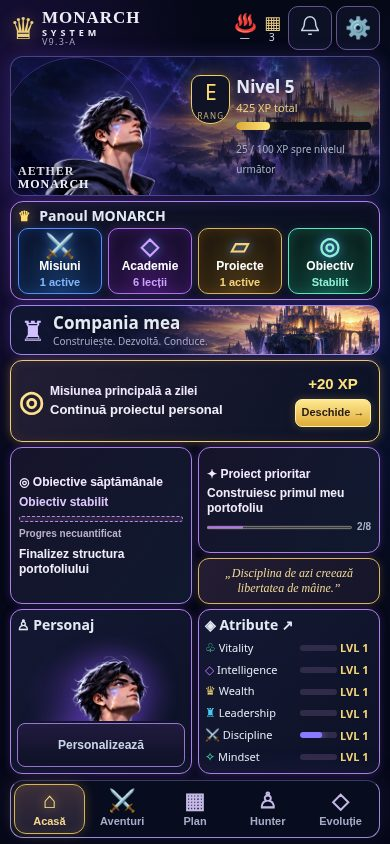
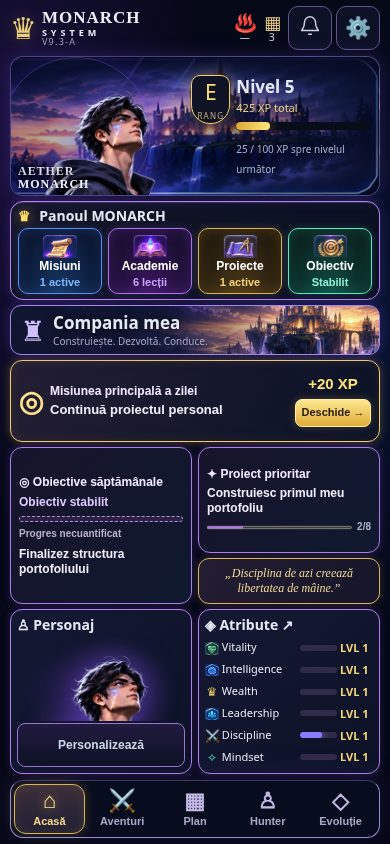
Integrate audited rank scenes and premium dashboard graphics without layout changes

diff --git a/app.js b/app.js
@@ -18,8 +18,13 @@ const level=()=>Math.floor(state.xp/100)+1;const ranks=['E','D','C','B','A','S']
 const counts=cat=>state.history.filter(x=>x.category===cat).length;
 function toast(msg){let el=document.createElement('div');el.className='toast';el.textContent=msg;document.body.append(el);setTimeout(()=>el.remove(),2700)}
 const CHARACTER_ART={E:'assets/characters/aether-e.webp',D:'assets/characters/aether-d.webp',C:'assets/characters/aether-c.webp',B:'assets/characters/aether-b.webp',A:'assets/characters/aether-a.webp',S:'assets/characters/aether-s.webp'};
+// URLs only: render requests the current rank, never all six scenes.
+const HERO_ART={E:'assets/graphics/concept/hero-e.webp',D:'assets/graphics/concept/hero-d.webp',C:'assets/graphics/concept/hero-c.webp',B:'assets/graphics/concept/hero-b.webp',A:'assets/graphics/concept/hero-a.webp',S:'assets/graphics/concept/hero-s.webp'};
+const ATTRIBUTE_ART={vitality:'energy',intelligence:'intelligence',leadership:'leadership'};
+function graphicIcon(file,fallback){return `<span class="icon-fallback">${fallback}</span><img class="graphic-icon" src="assets/graphics/concept/${file}-concept.webp" alt="" decoding="async">`}
+
 function header(){const recent=state.history.filter(h=>{const age=Date.now()-new Date(h.date).getTime();return age>=0&&age<7*864e5}).length;return `<header class="top monarch-brand"><span class="brand-crown" aria-hidden="true">♛</span><div class="brand-wordmark"><h1>MONARCH<span>SYSTEM</span></h1><small>${esc(window.MONARCH_BUILD)}</small></div><div class="header-status"><span class="header-fact" aria-label="Streak: nu există un contor salvat" title="Streak: nu există un contor salvat"><span aria-hidden="true">♨</span><small>—</small></span><span class="header-fact" aria-label="${recent} realizări în ultimele 7 zile" title="Realizări în ultimele 7 zile"><span aria-hidden="true">▦</span><small>${recent}</small></span><button class="secondary" data-tab="evolution" aria-label="Activitate recentă" title="Activitate recentă"><svg aria-hidden="true" viewBox="0 0 24 24" width="22" height="22" fill="none" stroke="currentColor" stroke-width="1.6"><path d="M18 8a6 6 0 0 0-12 0c0 7-3 7-3 9h18c0-2-3-2-3-9M10 21h4"/></svg></button><button class="brand-profile secondary" data-tab="evolution" aria-label="Evoluție și setări">⚙</button></div></header>`}
-function hero(){const r=rank();return `<section class="card hero monarch-hero" data-rank="${r}"><div class="hero-progress"><span class="rank-seal">${r}<small>RANG</small></span><div class="hero-progress-body"><div class="row"><strong>Nivel ${level()}</strong><span>${state.xp} XP total</span></div><small>${esc(state.player||'Monarch')}</small><div class="xpbar" role="progressbar" aria-label="XP către nivelul următor" aria-valuemin="0" aria-valuemax="100" aria-valuenow="${state.xp%100}"><div style="width:${state.xp%100}%"></div></div><small>${state.xp%100} / 100 XP spre nivelul următor</small></div></div><div class="character-stage"><div class="aether-orbit" aria-hidden="true"></div><div class="character-title"><span class="eyebrow">PERSONAJUL TĂU</span><h2>AETHER<br>MONARCH</h2><button class="secondary" data-tab="hunterpage">Personaj & inventar →</button></div><img class="aether-character" src="${CHARACTER_ART[r]||'assets/characters/aether-placeholder.svg'}" alt="AETHER MONARCH, rang ${r}" width="900" height="1200"></div></section>`}
+function hero(){const r=rank();return `<section class="card hero monarch-hero" data-rank="${r}"><div class="hero-scene-window" aria-hidden="true"><img class="hero-cinematic" src="${HERO_ART[r]}" alt="" width="1200" height="211" decoding="async"></div><div class="hero-progress"><span class="rank-seal">${r}<small>RANG</small></span><div class="hero-progress-body"><div class="row"><strong>Nivel ${level()}</strong><span>${state.xp} XP total</span></div><small>${esc(state.player||'Monarch')}</small><div class="xpbar" role="progressbar" aria-label="XP către nivelul următor" aria-valuemin="0" aria-valuemax="100" aria-valuenow="${state.xp%100}"><div style="width:${state.xp%100}%"></div></div><small>${state.xp%100} / 100 XP spre nivelul următor</small></div></div><div class="character-stage"><div class="aether-orbit" aria-hidden="true"></div><div class="character-title"><span class="eyebrow">PERSONAJUL TĂU</span><h2>AETHER<br>MONARCH</h2><button class="secondary" data-tab="hunterpage">Personaj & inventar →</button></div><img class="aether-character" src="${CHARACTER_ART[r]||'assets/characters/aether-placeholder.svg'}" alt="AETHER MONARCH, rang ${r}" width="900" height="1200"></div></section>`}
 
 function debtCount(){return Object.values(state.debts).reduce((a,b)=>a+b,0)}
 function hunter(){return `<section class="card"><h2>🛡 HUNTER MODE</h2><div class="row"><strong>⚫ Shadow Debt</strong><span class="pill">${debtCount()} amânări</span></div><p class="muted">Amânările sunt urmărite numai dacă alegi explicit «Amână». Pauzele și misiunile de sănătate nu sunt penalizate.</p>${Object.entries(state.debts).filter(([k,v])=>v>0).map(([k,v])=>{let t=[...state.tasks,...state.customTasks].find(x=>x.id===k);return `<div class="quest"><strong>${esc(t?.name||'Misiune')}</strong><p>${v} amânări · ${v>=3?'🐉 BREAK THE CYCLE activ':v>=2?'⚔ Recuperare disponibilă':'Pas mic recomandat'}</p><button class="secondary" data-action="recover" data-id="${esc(k)}">✓ Am realizat un pas mic</button></div>`}).join('')||'<p class="muted">Nicio amânare înregistrată. Continuă în ritmul tău.</p>'}</section>`}
@@ -27,8 +32,8 @@ function weekly(){let now=Date.now(),recent=state.history.filter(h=>now-new Date
 function unifiedPaths(){try{let a=core.read('monarch-awakening-v2');return (a.paths?.length?a.paths:['Finanțe','Sport','Organizare']).slice(0,3)}catch{return ['Finanțe','Sport','Organizare']}}
 function unifiedGoals(){try{return core.read('monarch-planner-v25').goals||{}}catch{return {}}}
 function missionCards(){const icons={'Finanțe':'💰','Sport':'💪','Organizare':'📅'};return unifiedPaths().map(p=>`<article class="quest unified-mission"><div class="row"><strong>${icons[p]||'⚔'} ${esc(p)}</strong><span class="pill">+20 XP</span></div><p>${['Finanțe','Sport','Organizare','Disciplină'].includes(p)?'Lecție interactivă în 5 etape, cu exemple și verificări.':'Provocare ghidată în 3 etape.'} Recompensa se acordă o singură dată.</p><button data-life25-start="${esc(p)}">⚔ Începe misiunea</button></article>`).join('')}
-function characteristics(compact=false){const entries=[['vitality','♧','Vitality'],['intelligence','◇','Intelligence'],['wealth','♛','Wealth'],['leadership','♜','Leadership'],['discipline','⚔','Discipline'],['mindset','✧','Mindset']];return `<section class="card ${compact?'dashboard-attributes monarch-attributes':''}" aria-label="Atribute"><h2>◈ ${compact?'Atribute ↗':'Caracteristici'}</h2><div class="stats">${entries.map(([id,icon,label])=>{const n=counts(id);const lvl=Math.floor(n/5)+1;return `<div class="stat" data-attribute="${id}"><span><i aria-hidden="true">${icon}</i> ${label}</span><b>LVL ${lvl}</b><progress class="attribute-progress" max="5" value="${n%5}" aria-label="${label}: ${n%5} din 5 realizări către nivelul următor"></progress>${compact?'':`<small>${n} ${n===1?'realizare':'realizări'} · ${n%5}/5 spre nivelul următor</small>`}</div>`}).join('')}</div>${compact?'<button class="attributes-open" data-tab="attributes" aria-label="Atribute: deschide detaliile realizărilor"></button>':''}</section>`}
-function monarchPanel(g,activeTasks){const available=lessons.filter(l=>!state.academy[l.id]?.done).length+(state.adaptive.promptcraft?.done?0:1),projects=state.bosses.filter(b=>!b.claimed).length;return `<section class="card monarch-panel" id="monarch-panel"><h2><span aria-hidden="true">♛</span> Panoul MONARCH</h2><div class="monarch-panel-grid monarch-actions"><button data-tab="adventure" data-summary="missions"><span class="panel-icon" aria-hidden="true">⚔</span><b>Misiuni</b><strong>${activeTasks.length} active</strong></button><button data-adventure="academy" data-summary="academy"><span class="panel-icon" aria-hidden="true">◇</span><b>Academie</b><strong>${available} lecții</strong></button><button data-adventure="projects" data-summary="projects"><span class="panel-icon" aria-hidden="true">▱</span><b>Proiecte</b><strong>${projects} active</strong></button><button data-tab="plan" data-summary="goal"><span class="panel-icon" aria-hidden="true">◎</span><b>Obiectiv</b><strong>${g.week?'Stabilit':'Nestabilit'}</strong></button></div></section>`}
+function characteristics(compact=false){const entries=[['vitality','♧','Vitality'],['intelligence','◇','Intelligence'],['wealth','♛','Wealth'],['leadership','♜','Leadership'],['discipline','⚔','Discipline'],['mindset','✧','Mindset']];return `<section class="card ${compact?'dashboard-attributes monarch-attributes':''}" aria-label="Atribute"><h2>◈ ${compact?'Atribute ↗':'Caracteristici'}</h2><div class="stats">${entries.map(([id,icon,label])=>{const n=counts(id);const lvl=Math.floor(n/5)+1;return `<div class="stat" data-attribute="${id}"><span><i aria-hidden="true">${compact&&ATTRIBUTE_ART[id]?graphicIcon('attribute-'+ATTRIBUTE_ART[id],icon):icon}</i> ${label}</span><b>LVL ${lvl}</b><progress class="attribute-progress" max="5" value="${n%5}" aria-label="${label}: ${n%5} din 5 realizări către nivelul următor"></progress>${compact?'':`<small>${n} ${n===1?'realizare':'realizări'} · ${n%5}/5 spre nivelul următor</small>`}</div>`}).join('')}</div>${compact?'<button class="attributes-open" data-tab="attributes" aria-label="Atribute: deschide detaliile realizărilor"></button>':''}</section>`}
+function monarchPanel(g,activeTasks){const available=lessons.filter(l=>!state.academy[l.id]?.done).length+(state.adaptive.promptcraft?.done?0:1),projects=state.bosses.filter(b=>!b.claimed).length;return `<section class="card monarch-panel" id="monarch-panel"><h2><span aria-hidden="true">♛</span> Panoul MONARCH</h2><div class="monarch-panel-grid monarch-actions"><button data-tab="adventure" data-summary="missions"><span class="panel-icon" aria-hidden="true">${graphicIcon('icon-missions','⚔')}</span><b>Misiuni</b><strong>${activeTasks.length} active</strong></button><button data-adventure="academy" data-summary="academy"><span class="panel-icon" aria-hidden="true">${graphicIcon('icon-academy','◇')}</span><b>Academie</b><strong>${available} lecții</strong></button><button data-adventure="projects" data-summary="projects"><span class="panel-icon" aria-hidden="true">${graphicIcon('icon-projects','▱')}</span><b>Proiecte</b><strong>${projects} active</strong></button><button data-tab="plan" data-summary="goal"><span class="panel-icon" aria-hidden="true">${graphicIcon('icon-objective','◎')}</span><b>Obiectiv</b><strong>${g.week?'Stabilit':'Nestabilit'}</strong></button></div></section>`}
 function dashboardData(){const goals=unifiedGoals(),tasks=[...state.tasks,...state.customTasks].filter(t=>!state.completed[today()+':'+t.id]&&!state.deferred[today()+':'+t.id]);return {goals,tasks,project:state.bosses.find(b=>!b.claimed)}}
 
 function home(){const {goals:g,tasks,project}=dashboardData(),task=tasks[0],r=rank(),hasProject=project&&Number.isFinite(project.target)&&project.target>0&&Number.isFinite(project.progress),progress=hasProject?Math.min(project.target,Math.max(0,project.progress)):0;return `<main class="single-dashboard" aria-label="Compania mea">${hero()}${monarchPanel(g,tasks)}<section class="company-heading company-banner"><span class="company-sigil" aria-hidden="true">♜</span><div><h2>Compania mea</h2><p>Construiește. Dezvoltă. Conduce.</p></div></section><button class="dashboard-mission" data-tab="adventure" aria-label="Misiunea principală: ${esc(task?.name||g.today||'Alege o misiune')}. Deschide lista și acțiunile."><span class="mission-icon" aria-hidden="true">◎</span><span class="mission-copy"><span class="summary-label">Misiunea principală a zilei</span><strong>${esc(task?.name||g.today||'Alege următoarea misiune')}</strong></span><span class="mission-action"><b>${task?'+'+task.xp+' XP':'Misiuni'}</b><span class="mission-cta">Deschide →</span></span></button><section class="dashboard-progress" aria-label="Obiective și proiect"><button class="dashboard-weekly" data-tab="plan" aria-label="Obiective săptămânale: ${esc(g.week||'Nestabilite')}. Progresul nu este cuantificat."><span class="summary-label">◎ Obiective săptămânale</span><strong>${g.week?'Obiectiv stabilit':'Obiectiv nestabilit'}</strong><span class="goal-status" aria-hidden="true"></span><small>Progres necuantificat</small><span class="weekly-summary">${esc(g.week||'Alege direcția săptămânii în Plan.')}</span></button><div class="dashboard-progress-right"><button class="dashboard-project" data-adventure="projects" aria-label="Proiect prioritar: ${esc(project?.name||'Niciun proiect activ')}"><span class="summary-label">✦ Proiect prioritar</span><strong>${esc(project?.name||'Niciun proiect activ')}</strong>${hasProject?`<span class="project-progress-row"><progress max="${project.target}" value="${progress}" aria-label="Proiect: ${progress} din ${project.target} pași"></progress><small>${progress}/${project.target}</small></span>`:'<small>Alege un proiect →</small>'}</button><blockquote class="card monarch-quote">„Disciplina de azi creează libertatea de mâine.”</blockquote></div></section><section class="dashboard-character-attributes" aria-label="Personaj și atribute"><section class="card dashboard-character"><h2>♙ Personaj</h2><div class="portrait-stage"><img class="aether-portrait" src="${CHARACTER_ART[r]||'assets/characters/aether-placeholder.svg'}" alt="Portret AETHER MONARCH, rang ${r}" width="900" height="1200"></div><button class="secondary" data-tab="hunterpage">Personalizează</button></section>${characteristics(true)}</section></main>`}
@@ -76,15 +81,17 @@ function courseAdvance(){let x=courseState();if(x.stage<4){x.stage++;save();rend
 let activeLesson=null;
 function academy(){let done=lessons.filter(l=>state.academy[l.id]?.done).length;return `<section class="card"><h2>📚 Academia Hunter</h2><p class="note">Învață în aplicație, răspunde la întrebări și câștigă XP o singură dată pentru fiecare lecție finalizată.</p><div class="row"><strong>Progres academie</strong><span class="pill">${done}/${lessons.length} lecții</span></div><div class="mini"><div style="width:${100*done/lessons.length}%"></div></div><button class="secondary" id="aw-open">🗺 Lecțiile traseului personalizat</button></section><section class="card"><p class="eyebrow">🧠 ANTRENAMENT AVANSAT</p><h2>Arta prompturilor</h2><p>Lecție aprofundată: teorie, exerciții ghidate, prompt scris de tine și proiect BOSS. Exerciții de aprofundare și proiect practic.</p><button data-action="opencourse">⚔ ${courseState().done?'Revizuiește':'Începe'} PROMPT ENGINEERING</button></section>${lessons.map(l=>`<section class="card"><small class="eyebrow">${esc(l.tag)}</small><h2>${esc(l.title)}</h2><p class="muted">${state.academy[l.id]?.done?'🏆 Finalizată':'⚔ Lecție interactivă'} · ${l.xp} XP</p><button data-action="openlesson" data-id="${l.id}">${state.academy[l.id]?.done?'📖 Recitește':'⚔ Intră în misiune'}</button></section>`).join('')}<section class="card"><h2>🐉 BOSS: ACADEMY INITIATE</h2><p>Finalizează toate cele ${lessons.length} lecții. Nu se acordă XP suplimentar pentru repetări.</p><button data-action="academyboss" ${done!==lessons.length||state.academy.bossClaimed?'disabled':''}>${state.academy.bossClaimed?'🏆 BOSS învins':'🏆 Revendică +100 XP'}</button></section>`}
 function lessonView(){let l=lessons.find(x=>x.id===activeLesson);if(!l){tab='adventure';adventureSection='academy';return adventure()}let st=state.academy[l.id]||{};return `<section class="card"><button class="secondary" data-action="backacademy">← Înapoi</button><p class="eyebrow">${esc(l.tag)}</p><h2>⚔ ${esc(l.title)}</h2><p class="lesson-text">${esc(l.read)}</p><h3>🧩 Provocare</h3><p>${esc(l.question)}</p>${l.choices.map((c,i)=>`<button class="choice ${st.done&&i===l.answer?'correct':''}" data-action="answer" data-id="${l.id}" data-choice="${i}" ${st.done?'disabled':''}>${String.fromCharCode(65+i)}. ${esc(c)}</button>`).join('')}${st.done?`<p class="success">🏆 Lecție finalizată! ${esc(l.why)}</p>`:'<p class="muted">Poți încerca din nou dacă răspunsul nu este corect. Nu pierzi XP.</p>'}</section>`}
-const views={home,attributes:()=>`<section class="card"><button data-tab="home">← Acasă</button><h2>Atributele personajului</h2></section>`+characteristics(),adventure,plan:planUnified,hunterpage:hunterUnified,evolution:evolutionUnified,academy,lesson:lessonView,course};function render(){document.documentElement.classList.toggle('single-screen',tab==='home');document.documentElement.dataset.dashboardMode=dashboardMode();document.getElementById('app').innerHTML=header()+views[tab]()+`<nav class="tabs unified-tabs">${[['home','Acasă'],['adventure','Aventuri'],['plan','Plan'],['hunterpage','Hunter'],['evolution','Evoluție']].map(([k,n])=>`<button data-tab="${k}" class="${tab===k?'active':''}"><span class="nav-symbol" aria-hidden="true">${({home:"⌂",adventure:"⚔",plan:"▦",hunterpage:"♙",evolution:"◇"})[k]}</span><span>${n}</span></button>`).join('')}</nav>`;document.querySelectorAll('.aether-character,.aether-portrait').forEach(img=>{img.addEventListener('error',()=>{img.src='assets/characters/aether-placeholder.svg';img.alt='AETHER MONARCH — ilustrație provizorie, rang '+rank();},{once:true});});requestAnimationFrame(checkDashboardFit);}
+const views={home,attributes:()=>`<section class="card"><button data-tab="home">← Acasă</button><h2>Atributele personajului</h2></section>`+characteristics(),adventure,plan:planUnified,hunterpage:hunterUnified,evolution:evolutionUnified,academy,lesson:lessonView,course};function render(){document.documentElement.classList.toggle('single-screen',tab==='home');document.documentElement.dataset.dashboardMode=dashboardMode();document.getElementById('app').innerHTML=header()+views[tab]()+`<nav class="tabs unified-tabs">${[['home','Acasă'],['adventure','Aventuri'],['plan','Plan'],['hunterpage','Hunter'],['evolution','Evoluție']].map(([k,n])=>`<button data-tab="${k}" class="${tab===k?'active':''}"><span class="nav-symbol" aria-hidden="true">${({home:"⌂",adventure:"⚔",plan:"▦",hunterpage:"♙",evolution:"◇"})[k]}</span><span>${n}</span></button>`).join('')}</nav>`;document.querySelectorAll('.aether-character,.aether-portrait').forEach(img=>{img.addEventListener('error',()=>{img.src='assets/characters/aether-placeholder.svg';img.alt='AETHER MONARCH — ilustrație provizorie, rang '+rank();},{once:true});});document.querySelectorAll('.hero-cinematic').forEach(img=>img.addEventListener('error',()=>{img.dataset.fallback='true';img.src='assets/scenes/monarch-castle-panorama.webp';},{once:true}));document.querySelectorAll('.graphic-icon').forEach(img=>img.addEventListener('error',()=>{img.hidden=true;img.parentElement.classList.add('art-missing');},{once:true}));document.querySelectorAll('.hero-cinematic,.graphic-icon,.aether-character,.aether-portrait').forEach(img=>{for(const event of ['load','error'])img.addEventListener(event,()=>scheduleDashboardFit());});document.fonts?.ready.then(()=>scheduleDashboardFit());scheduleDashboardFit();}
 function award(name,xp,category){state.xp+=xp;state.history.push({date:new Date().toISOString(),name,xp,category});save();render();toast(`✨ ${name}: +${xp} XP`)}
 document.addEventListener('click',e=>{let b=e.target.closest('button');if(!b)return;if(b.dataset.adventure){adventureSection=b.dataset.adventure;tab='adventure';render();scrollTo(0,0);return}if(b.dataset.tab){tab=b.dataset.tab;if(tab==='adventure')adventureSection='missions';render();scrollTo(0,0);return}let a=b.dataset.action,id=b.dataset.id;if(a==='opencourse'){tab='course';adventureSection='academy';render();scrollTo(0,0);return}else if(a==='diag'){let x=courseState();if(x.stage!==0)return;if(b.dataset.choice==='0'){x.tries=0;courseAdvance()}else{ x.tries++;save();toast('Indiciu: gândește-te ce informații îi lipsesc celui care scrie reclama.');render()}return}else if(a==='coursenext'){if(courseState().stage===1)courseAdvance();return}else if(a==='guided'){let x=courseState();if(x.stage!==2)return;if(b.dataset.choice==='1'){courseAdvance()}else{x.tries++;save();toast('Caută cererea care indică publicul, lungimea și un exemplu.');render()}return}else if(a==='openlesson'){activeLesson=id;tab='lesson';render();scrollTo(0,0);return}else if(a==='backacademy'){tab='adventure';adventureSection='academy';render();scrollTo(0,0);return}else if(a==='answer'){let l=lessons.find(x=>x.id===id);if(!l||state.academy[id]?.done)return;if(Number(b.dataset.choice)!==l.answer)return toast('Mai încearcă! Recitește explicația.');state.academy[id]={done:true,completedAt:new Date().toISOString()};award('ACADEMY: '+l.title,l.xp,l.tag.startsWith('🧠')?'intelligence':'wealth');return}else if(a==='academyboss'){if(lessons.every(l=>state.academy[l.id]?.done)&&!state.academy.bossClaimed){state.academy.bossClaimed=true;award('BOSS: ACADEMY INITIATE',100,'intelligence')}return}else if(a==='defer'){let t=[...state.tasks,...state.customTasks].find(t=>t.id===id);if(!t||!['intelligence','wealth','leadership','discipline'].includes(t.category))return;let key=today()+':'+id;if(state.deferred[key]||state.completed[key])return toast('Misiunea a fost deja gestionată astăzi');state.deferred[key]=true;state.debts[id]=(state.debts[id]||0)+1;save();render();toast(state.debts[id]>=3?'🐉 BREAK THE CYCLE: începe cu un pas mic':'Amânare înregistrată fără pierdere de XP');}else if(a==='recover'){if(!(state.debts[id]>0))return;let key=today()+':recover:'+id;if(state.recovery[key])return toast('Ai recuperat deja astăzi');state.recovery[key]=true;state.debts[id]--;award('BREAK THE CYCLE — pas mic',10,'discipline');}else if(a==='remove'){if(!confirm('Ștergi această misiune personalizată?'))return;state.customTasks=state.customTasks.filter(t=>t.id!==id);save();render();}else if(a==='complete'){let t=[...state.tasks,...state.customTasks].find(t=>t.id===id);if(!t||state.completed[`${today()}:${id}`]||state.deferred[`${today()}:${id}`])return;state.completed[`${today()}:${id}`]=true;award(t.name,t.xp,t.category)}else if(a==='bossstep'){let x=state.bosses.find(b=>b.id===id);if(x&&x.progress<x.target){x.progress++;save();render();toast('Pas BOSS înregistrat')}}else if(a==='bossclaim'){let x=state.bosses.find(b=>b.id===id);if(x&&x.progress>=x.target&&!x.claimed){x.claimed=true;award(`BOSS: ${x.name}`,x.reward,'discipline')}}else if(a==='rename'){state.player=document.getElementById('playername').value.trim()||'PLAYER 001';save();render()}else if(a==='export'){let blob=new Blob([JSON.stringify(state,null,2)],{type:'application/json'}),u=URL.createObjectURL(blob),a=document.createElement('a');a.href=u;a.download='monarch-backup-'+today()+'.json';a.click();setTimeout(()=>URL.revokeObjectURL(u),1000)}else if(a==='import'){document.getElementById('importfile').click()}});
 document.addEventListener('submit',e=>{if(['courseform','bossacademyform'].includes(e.target.id)){e.preventDefault();let x=courseState(),v=String(new FormData(e.target).get('prompt')||'').trim();if(e.target.id==='courseform'&&x.stage===3){x.notes=v;save();if(v.length<70)return toast('Adaugă mai multe detalii despre sarcină, context și format.');courseAdvance();return}if(e.target.id==='bossacademyform'&&x.stage===4&&!x.done){if(v.length<110)return toast('Descrie mai clar proiectul și cerințele.');x.result=v;x.done=true;award('ADAPTIVE: PROMPT ARCHITECT',module13.xp,'intelligence');return}return}if(!['taskform','healthform','financeform','bossform'].includes(e.target.id))return;e.preventDefault();let d=Object.fromEntries(new FormData(e.target).entries());if(e.target.id==='bossform'){if(state.bosses.filter(b=>!b.claimed).length>=5)return toast('Maximum 5 BOSS activi');state.bosses.push({id:'boss-'+Date.now(),name:d.name.trim(),target:Math.min(30,Math.max(1,Number(d.target)||5)),progress:0,reward:150,claimed:false});toast('BOSS adăugat');}if(e.target.id==='taskform'){if(!d.name.trim())return;state.customTasks.push({id:'custom-'+Date.now(),name:d.name.trim(),detail:d.detail,xp:15,category:d.category,daily:true});toast('Misiune adăugată')}if(e.target.id==='healthform'){if(![d.activity,d.food,d.sleep,d.weight].some(x=>x.trim()))return toast('Completează cel puțin un câmp');state.logs.push({...d,date:new Date().toISOString()});toast('Jurnal salvat')}if(e.target.id==='financeform'){state.finance.push({note:d.note,date:new Date().toISOString()});toast('Notă salvată')}save();render()});
 document.addEventListener('change',e=>{if(e.target.id==='importfile'){window.MONARCH_PROGRESS_SHIELD?.importFile(e.target.files[0]);e.target.value=''}});
 // Telegram reports the WebView's usable height: do not subtract its native header again.
+let dashboardFitRequest=0;
+function scheduleDashboardFit(){cancelAnimationFrame(dashboardFitRequest);dashboardFitRequest=requestAnimationFrame(checkDashboardFit)}
 function dashboardMode(){return dashboardHeight()<760?'compact':'full'}
 function dashboardHeight(){const tg=window.Telegram?.WebApp;return Math.min(...[window.innerHeight,window.visualViewport?.height,tg?.viewportHeight||tg?.viewportStableHeight].filter(n=>Number.isFinite(n)&&n>0))}
-function syncDashboardViewport(){const root=document.documentElement,tg=window.Telegram?.WebApp;root.style.setProperty('--monarch-viewport-height',dashboardHeight()+'px');for(const side of ['top','bottom','left','right']){const n=Math.max(Number(tg?.safeAreaInset?.[side])||0,Number(tg?.contentSafeAreaInset?.[side])||0);root.style.setProperty('--monarch-safe-'+side,n+'px')}root.dataset.dashboardMode=dashboardMode();root.dataset.dashboardLargeText=String(parseFloat(getComputedStyle(root).fontSize)>21);requestAnimationFrame(checkDashboardFit)}
+function syncDashboardViewport(){const root=document.documentElement,tg=window.Telegram?.WebApp;root.style.setProperty('--monarch-viewport-height',dashboardHeight()+'px');for(const side of ['top','bottom','left','right']){const n=Math.max(Number(tg?.safeAreaInset?.[side])||0,Number(tg?.contentSafeAreaInset?.[side])||0);root.style.setProperty('--monarch-safe-'+side,n+'px')}root.dataset.dashboardMode=dashboardMode();root.dataset.dashboardLargeText=String(parseFloat(getComputedStyle(root).fontSize)>21);scheduleDashboardFit()}
 function checkDashboardFit(){document.getElementById('dashboard-fit-notice')?.remove();const root=document.documentElement;root.classList.remove('dashboard-overflow');if(tab!=='home')return;const app=document.getElementById('app'),large=parseFloat(getComputedStyle(root).fontSize)>21,style=getComputedStyle(app),usable=app.clientHeight-parseFloat(style.paddingTop)-parseFloat(style.paddingBottom);const checks=app.querySelectorAll('.monarch-actions b,.monarch-actions strong,.dashboard-mission,.dashboard-weekly,.dashboard-project,.monarch-quote,.dashboard-attributes .stat span,.dashboard-attributes .stat b,.hero-progress-body,.company-banner,nav button');const clipped=Array.from(checks).some(el=>el.scrollWidth>el.clientWidth+2||el.scrollHeight>el.clientHeight+2);if(large||usable<680||clipped||app.scrollHeight>app.clientHeight+2){root.classList.add('dashboard-overflow');const note=document.createElement('p');note.id='dashboard-fit-notice';note.setAttribute('role','status');note.textContent='Acest spațiu, textul mărit sau lungimea rezumatelor nu permite toate cele opt zone lizibile pe un singur ecran. Structura este păstrată; derulează pentru toate detaliile. Încadrarea integrală necesită minimum 680 px utili, text standard și rezumate scurte.';app.querySelector('.single-dashboard').before(note)}}
 window.addEventListener('resize',syncDashboardViewport);window.visualViewport?.addEventListener('resize',syncDashboardViewport);try{const tg=window.Telegram?.WebApp;if(typeof tg?.onEvent==='function')for(const e of ['viewportChanged','safeAreaChanged','contentSafeAreaChanged'])tg.onEvent(e,syncDashboardViewport)}catch{}syncDashboardViewport();
 try{window.Telegram?.WebApp?.ready();window.Telegram?.WebApp?.expand()}catch{}render();

diff --git a/style.css b/style.css
@@ -129,3 +129,19 @@ body{background:radial-gradient(ellipse at 0 15%,#5025a047,transparent 38%),radi
 .dashboard-attributes{position:relative}.single-dashboard .attributes-open{position:absolute;inset:0;width:100%;height:100%;min-height:44px;padding:0;background:transparent;border:0;border-radius:12px;color:inherit}.single-dashboard .attributes-open:focus-visible{outline:2px solid #ffdf88;outline-offset:-3px}.single-screen.dashboard-overflow .dashboard-weekly,.single-screen.dashboard-overflow .dashboard-project{overflow-wrap:anywhere}.single-screen.dashboard-overflow .dashboard-progress-right{grid-template-rows:minmax(min-content,1fr) auto}
 
 .single-screen.dashboard-overflow[data-dashboard-large-text=true] .brand-wordmark h1{line-height:1.15}.single-screen.dashboard-overflow[data-dashboard-large-text=true] .monarch-hero .hero-progress{left:46%;grid-template-columns:40px minmax(0,1fr);gap:8px}.single-screen.dashboard-overflow[data-dashboard-large-text=true] .hero-progress .rank-seal{width:40px;font-size:1.5rem}.single-screen.dashboard-overflow[data-dashboard-large-text=true] .hero-progress .rank-seal small{font-size:.35rem}
+
+/* Concept graphics only: existing tracks, spacing, text and touch targets are unchanged. */
+.hero-scene-window{position:absolute;inset:0;z-index:0;overflow:hidden;pointer-events:none;border-radius:inherit}
+/* The right half is scenery. Keep the baked shield/second character outside the window. */
+.hero-cinematic{position:absolute;right:0;top:0;width:200%;height:100%;max-width:none;object-fit:cover;object-position:right center}
+.hero-cinematic[data-fallback=true]{width:100%}
+.hero-scene-window::after{content:"";position:absolute;inset:0;background:linear-gradient(180deg,#080b24 0%,#080b24aa 6%,transparent 22%),linear-gradient(90deg,#0a092852 5%,#0b0b2433 42%,#080b228c 65%,#080c2480);pointer-events:none}
+.panel-icon{display:inline-grid;place-items:center;width:1.4em;height:1em;flex:none}
+.graphic-icon{display:block;width:100%;height:100%;object-fit:contain;mix-blend-mode:screen}
+.graphic-icon[hidden],.icon-fallback{display:none}.art-missing>.icon-fallback{display:block}
+.single-dashboard .dashboard-attributes .stat i{display:inline-grid;place-items:center;vertical-align:middle;width:14px;height:14px;line-height:1}
+.single-screen .monarch-panel{box-shadow:0 0 12px #7d4bd747,inset 0 1px 0 #c6a0ef33}
+.single-screen .monarch-actions button{box-shadow:inset 0 0 13px #4269bc44,0 0 7px #649af52b}
+.single-screen .monarch-actions [data-summary=academy]{box-shadow:inset 0 0 15px #9043d447,0 0 8px #ad65f333}
+.single-screen .monarch-actions [data-summary=projects]{box-shadow:inset 0 0 15px #ab7c3047,0 0 8px #e5bb5433}
+.single-screen .monarch-actions [data-summary=goal]{box-shadow:inset 0 0 15px #299d8647,0 0 8px #5ee8c133}

diff --git a/index.html b/index.html
@@ -1,2 +1,2 @@
-<!doctype html><html lang="ro"><head><meta charset="utf-8"><meta name="viewport" content="width=device-width,initial-scale=1,viewport-fit=cover"><meta name="theme-color" content="#090d1b"><title>MONARCH — Life Ascension</title><link rel="stylesheet" href="style.css?v=monarch-v93a-exact-20261031"></head><body><div id="app"></div><script src="https://telegram.org/js/telegram-web-app.js?v=characteristics-restore-20261030"></script><script src="lesson-ids.js?v=monarch-v93a-exact-20261031"></script><script src="progress-core.js?v=monarch-v93a-exact-20261031"></script><script src="progress-shield.js?v=monarch-v93a-exact-20261031"></script><script src="app.js?v=monarch-v93a-exact-20261031"></script><script src="awakening.js?v=monarch-v93a-exact-20261031"></script><script src="hunter24.js?v=monarch-v93a-exact-20261031"></script><script src="life25.js?v=monarch-v93a-exact-20261031"></script></body></html>
+<!doctype html><html lang="ro"><head><meta charset="utf-8"><meta name="viewport" content="width=device-width,initial-scale=1,viewport-fit=cover"><meta name="theme-color" content="#090d1b"><title>MONARCH — Life Ascension</title><link rel="stylesheet" href="style.css?v=monarch-v93a-graphics-20261031"></head><body><div id="app"></div><script src="https://telegram.org/js/telegram-web-app.js?v=characteristics-restore-20261030"></script><script src="lesson-ids.js?v=monarch-v93a-graphics-20261031"></script><script src="progress-core.js?v=monarch-v93a-graphics-20261031"></script><script src="progress-shield.js?v=monarch-v93a-graphics-20261031"></script><script src="app.js?v=monarch-v93a-graphics-20261031"></script><script src="awakening.js?v=monarch-v93a-graphics-20261031"></script><script src="hunter24.js?v=monarch-v93a-graphics-20261031"></script><script src="life25.js?v=monarch-v93a-graphics-20261031"></script></body></html>
 

diff --git a/V93_GRAPHICS_AUDIT.md b/V93_GRAPHICS_AUDIT.md
@@ -1,0 +1,49 @@
+# V9.3-A — auditul pachetului grafic
+
+Audit efectuat înainte de integrare. Arhiva utilizatorului a fost extrasă în `/tmp/monarch-v93-graphics-original`, fără a suprascrie fișiere existente. Conține 17 imagini WebP și README.txt. Toate imaginile sunt RGB, complet opace, fără canal alpha; sunt decupaje dintr-o planșă, nu resurse native transparente. Nu conțin niveluri sau XP pictate.
+
+| Fișier | Rezoluție | Octeți | Problemă / decizie |
+| --- | --- | ---: | --- |
+| hero-e.webp | 1200×199 | 41434 | Rang E și personaj pictate în stânga; utilizabil numai ca fereastră pe decorul din dreapta |
+| hero-d.webp | 1200×199 | 47722 | Rang D / personaj în stânga; aceeași precauție |
+| hero-c.webp | 1200×202 | 54414 | Rang C / personaj în stânga; aceeași precauție |
+| hero-b.webp | 1200×202 | 61424 | Rang B / personaj în stânga; aceeași precauție |
+| hero-a.webp | 1200×211 | 69158 | Rang A / personaj în stânga; aceeași precauție |
+| hero-s.webp | 1200×211 | 78936 | Rang S; coroana și un vârf de castel ating marginea superioară a sursei; fără reconstrucție prin întindere |
+| company-concept-with-text.webp | 1200×313 | 99446 | Conține „Compania mea” și „AETHER CORPORATION”; respins ca banner direct, pentru a păstra titlul/subtitlul HTML fără dublare |
+| icon-missions-concept.webp | 163×114 | 6284 | Pergament cu bifă: semnificație potrivită; fără cuvinte; fundal opac, necesită verificare la dimensiunea mobilă |
+| icon-academy-concept.webp | 164×114 | 7616 | Carte: potrivită, fără cuvinte; fundal opac |
+| icon-projects-concept.webp | 164×114 | 6912 | Plan și compas: potrivită, fără cuvinte; fundal opac |
+| icon-objective-concept.webp | 173×114 | 7822 | Țintă: potrivită, fără cuvinte; fundal opac |
+| attribute-energy-concept.webp | 101×89 | 3356 | Inimă/puls: poate reprezenta Vitality, fără redenumirea atributului |
+| attribute-intelligence-concept.webp | 100×89 | 4102 | Creier: corespunde Intelligence |
+| attribute-leadership-concept.webp | 104×89 | 3610 | Grup: corespunde Leadership |
+| attribute-discipline-concept.webp | 103×89 | 3638 | Scut: metaforă ambiguă; se păstrează pictograma Discipline existentă |
+| attribute-strength-concept.webp | 101×89 | 3152 | Halteră: nu reprezintă Wealth sau Mindset; respinsă pentru mapare automată |
+| attribute-focus-concept.webp | 100×89 | 3922 | Reticul: nu reprezintă Wealth sau Mindset; respinsă pentru mapare automată |
+
+## Integrare aprobată de audit
+
+Se păstrează cele opt zone, dimensiunile grilelor și toate datele/funcțiile existente. Antetul folosește exclusiv imaginea rangului calculat de funcția existentă. Imaginile-sursă rămân byte-for-byte WebP, fără conversie cu pierderi suplimentare. O fereastră CSS pe jumătatea dreaptă a panoramei, cu `object-fit: cover`, exclude permanent insigna și personajul pictate în stânga, inclusiv pe ecrane mai late. Nu sunt întinse. AETHER E–S transparent și singura insignă HTML rămân în prim-plan; nivelul și XP-ul sunt HTML dinamice. La eroare se folosește panorama originală deja existentă.
+
+Pictogramele sunt strict decorative, cu `alt=""`; titlurile și indicatorii rămân HTML. Fundalurile lor opace se îmbină prin CSS cu panourile, fără a pretinde transparență nativă și fără a deforma proporțiile. La eroare de încărcare se reafișează simbolul existent. Cele șase atribute și regulile lor rămân neschimbate; trei pictograme au corespondențe clare, celelalte se păstrează.
+
+Bannerul companiei existent nu este înlocuit cu un decupaj nepotrivit sau cu text duplicat. Navigarea inferioară își păstrează etichetele, ordinea, starea activă și funcțiile.
+
+## Resurse care necesită regenerare separată
+
+- Banner panoramic original fără niciun text sau logo încorporat, cu castelul în dreapta și spațiu întunecat pentru titlul HTML în stânga.
+- Pictograme native transparente (SVG/PNG/WebP alpha), fără rame decupate; set semantic complet pentru Vitality, Intelligence, Wealth, Leadership, Discipline, Mindset.
+- Opțional: variante originale E–S fără insignă/personaj pictate și fără vârfuri tăiate, dacă se dorește afișarea întregii compoziții în locul ferestrei pe decor.
+
+Sursa S are deja detalii care ating/depășesc marginea superioară; nu este afișată ca planșă integrală. Coroana tăiată rămâne în afara ferestrei decorative, iar marginea superioară a decorului este estompată într-un gradient bleumarin pentru a nu expune tăieturi dure. CSS nu poate recupera pixeli inexistenți; o variantă nativă fără tăieri rămâne recomandată. Nu se pretinde reproducere integrală pixel cu pixel. Nu se încarcă simultan cele șase fundaluri: registrul conține URL-uri, iar DOM-ul solicită numai rangul curent. Nu sunt adăugate animații, preloaduri pentru toate rangurile sau biblioteci grafice.
+
+## Buget și validare
+
+Au fost integrate 13 resurse, total 392.790 octeți, verificate byte-for-byte cu arhiva. La un profil se solicită numai fundalul rangului curent (41.434–78.936 octeți), plus patru pictograme de acțiuni și trei de atribute (39.702 octeți împreună): aproximativ 81–119 KB de grafică nouă, nu toate cele șase scene. Resursele existente pentru personaj și banner se păstrează. Nu se adaugă preloaduri pentru toate rangurile sau animații.
+
+Verificarea încadrării se reexecută după încărcarea/eroarea imaginilor și după stabilizarea fonturilor. Cererile din același cadru sunt grupate, pentru a evita măsurări repetate sau activarea temporară nejustificată a modului cu derulare. Pragurile și comportamentul accesibil existent rămân aceleași.
+
+Testele acoperă 108 cazuri Node, 18 combinații de rang și viewport țintă, toate cele șase ranguri la WebView740 pe cele trei lățimi, încărcarea exclusivă a scenei curente, excluderea prin geometrie a insignei/personajului pictate, fallbackul personajului/scenei și al celor șapte pictograme. Sunt păstrate testele de navigare, inventar, XP real, zero scrieri la navigare și zero erori JavaScript. Au fost executate separat suitele Core, Shield, export/import V9.1.2 și compatibilitatea celor 26 de profiluri istorice.
+
+Șase comparații înainte/după (E și S × cele trei viewporturi) confirmă coordonate și dimensiuni identice pentru toate cele opt zone și aceleași fonturi principale. Capturile noi sunt în `docs/screenshots/dashboard-{360,390,430}.jpg`. Toate profilurile de test sunt fictive. Testarea Chromium/Telegram simulat nu certifică Telegram Android sau Samsung real.

diff --git a/V93_DASHBOARD.md b/V93_DASHBOARD.md
@@ -48,14 +48,14 @@ Limita de încadrare nu este o promisiune pentru orice text sau dispozitiv: sub 
 
 `CHARACTER_ART` păstrează cele șase WebP furnizate, nemodificate: `assets/characters/aether-{e,d,c,b,a,s}.webp`. Eroarea de încărcare a oricărei forme folosește placeholderul existent, atât în hero cât și în portret. Încadrarea CSS compensează marginile transparente ale imaginilor.
 
-Panorama `assets/scenes/monarch-castle-panorama.webp` este originală, deja integrată în PR: castel pe creastă, nori violet-albaștri și lumină aurie. Se utilizează decorativ în hero și banner, nu imaginea integrală a interfeței. Personajele sau elementele Solo Leveling nu sunt copiate.
+Panorama originală `assets/scenes/monarch-castle-panorama.webp` rămâne bannerul Compania mea și fallbackul hero. Fundalul primar al hero este acum varianta E–S din pachetul utilizatorului, afișată printr-o fereastră pe decorul din dreapta pentru a exclude rangul/personajul deja pictate. Nu se folosește imaginea integrală a interfeței. Auditul tuturor resurselor, inclusiv cele respinse, este în [V93_GRAPHICS_AUDIT.md](V93_GRAPHICS_AUDIT.md). Personajele sau elementele Solo Leveling nu sunt copiate.
 
-Capturile noi reproduc structura referinței: cele opt zone, rândul de patru carduri colorate, misiune aurie, obiectiv/proiect/citat în coloanele cerute și personaj/atribute alăturate. Diferențe rămase: ilustrația castelului este o compoziție originală, fără dragon; emblema și pictogramele sunt în principal text/simboluri și nu resursele pictate ale conceptului; fonturile și bordurile sunt realizate în CSS; datele reale nu permit procente/checklist-uri demonstrative. La 360 px, etichetele atributelor au 11 px la text standard, iar textele principale 12–17 px; reglajele de text Android pot activa fallbackul accesibil.
+Capturile noi reproduc structura referinței: cele opt zone, rândul de patru carduri colorate, misiune aurie, obiectiv/proiect/citat în coloanele cerute și personaj/atribute alăturate. Diferențe rămase: decorul E–S este afișat selectiv din pachet, fără reproducerea întregii planșe sau a întregului dragon; emblema și meniul inferior rămân în HTML/CSS, iar cele patru acțiuni și trei atribute folosesc pictogramele potrivite din pachet; fonturile și bordurile sunt realizate în CSS; datele reale nu permit procente/checklist-uri demonstrative. La 360 px, etichetele atributelor au 11 px la text standard, iar textele principale 12–17 px; reglajele de text Android pot activa fallbackul accesibil.
 
-Resurse opționale pentru o etapă grafică ulterioară: set original coerent de pictograme SVG pentru cele patru acțiuni și meniul inferior, emblemă MONARCH vectorială, panorame distincte pentru hero/banner și un familiar/efect de energie original. Nicio resursă suplimentară nu este necesară pentru structura funcțională livrată.
+Resurse opționale pentru o etapă grafică ulterioară: set original coerent de pictograme SVG pentru cele patru acțiuni și meniul inferior, emblemă MONARCH vectorială, un banner fără text și fără decupaje la margini, variante native ale decorurilor E–S și un familiar/efect de energie original separat. Nicio resursă suplimentară nu este necesară pentru structura funcțională livrată.
 
 ## Teste și capturi
 
-Rezultate finale: 108 teste Node trecute; 18 combinații exacte viewport/rang; trei simulări Telegram la 740 px; limite confirmate la 700 px cu 24 px safe area și la 420 px/text 200%; 10 scenarii browser Progress Core; regresia mobilă Progress Shield; nouă scenarii export și 13 scenarii V9.1.2; 26 de profiluri istorice comparate cu V9.0 plus verificări de backup pentru host limitat și profil corupt. Toate suitele au ieșit cu cod 0. Sunt verificate separat navigarea panoului Atribute, inventarul, forma E–S, fallbackul imaginilor, valorile reale, lipsa scrierilor la navigare și absența erorilor JavaScript. Toate profilurile care sunt modificate în teste sunt fictive. Capturi: `docs/screenshots/dashboard-360.jpg` (360×800), `dashboard-390.jpg` (390×844), `dashboard-430.jpg` (430×932). Capturile mai vechi cu alte dimensiuni sunt păstrate ca istoric, nu ca dovezi pentru această structură.
+Rezultate finale: 108 teste Node trecute; 18 combinații exacte viewport/rang; 18 simulări Telegram la 740 px; limite confirmate la 700 px cu 24 px safe area și la 420 px/text 200%; 10 scenarii browser Progress Core; regresia mobilă Progress Shield; nouă scenarii export și 13 scenarii V9.1.2; 26 de profiluri istorice comparate cu V9.0 plus verificări de backup pentru host limitat și profil corupt. Toate suitele au ieșit cu cod 0. Sunt verificate separat navigarea panoului Atribute, inventarul, forma E–S, fallbackul imaginilor, valorile reale, lipsa scrierilor la navigare și absența erorilor JavaScript. Toate profilurile care sunt modificate în teste sunt fictive. Capturi: `docs/screenshots/dashboard-360.jpg` (360×800), `dashboard-390.jpg` (390×844), `dashboard-430.jpg` (430×932). Capturile mai vechi cu alte dimensiuni sunt păstrate ca istoric, nu ca dovezi pentru această structură.
 
 Testarea Chromium și simularea API-urilor Telegram nu certifică Telegram Android/Samsung real. Verificarea pe dispozitiv rămâne necesară. Nu se efectuează merge sau deploy automat.
